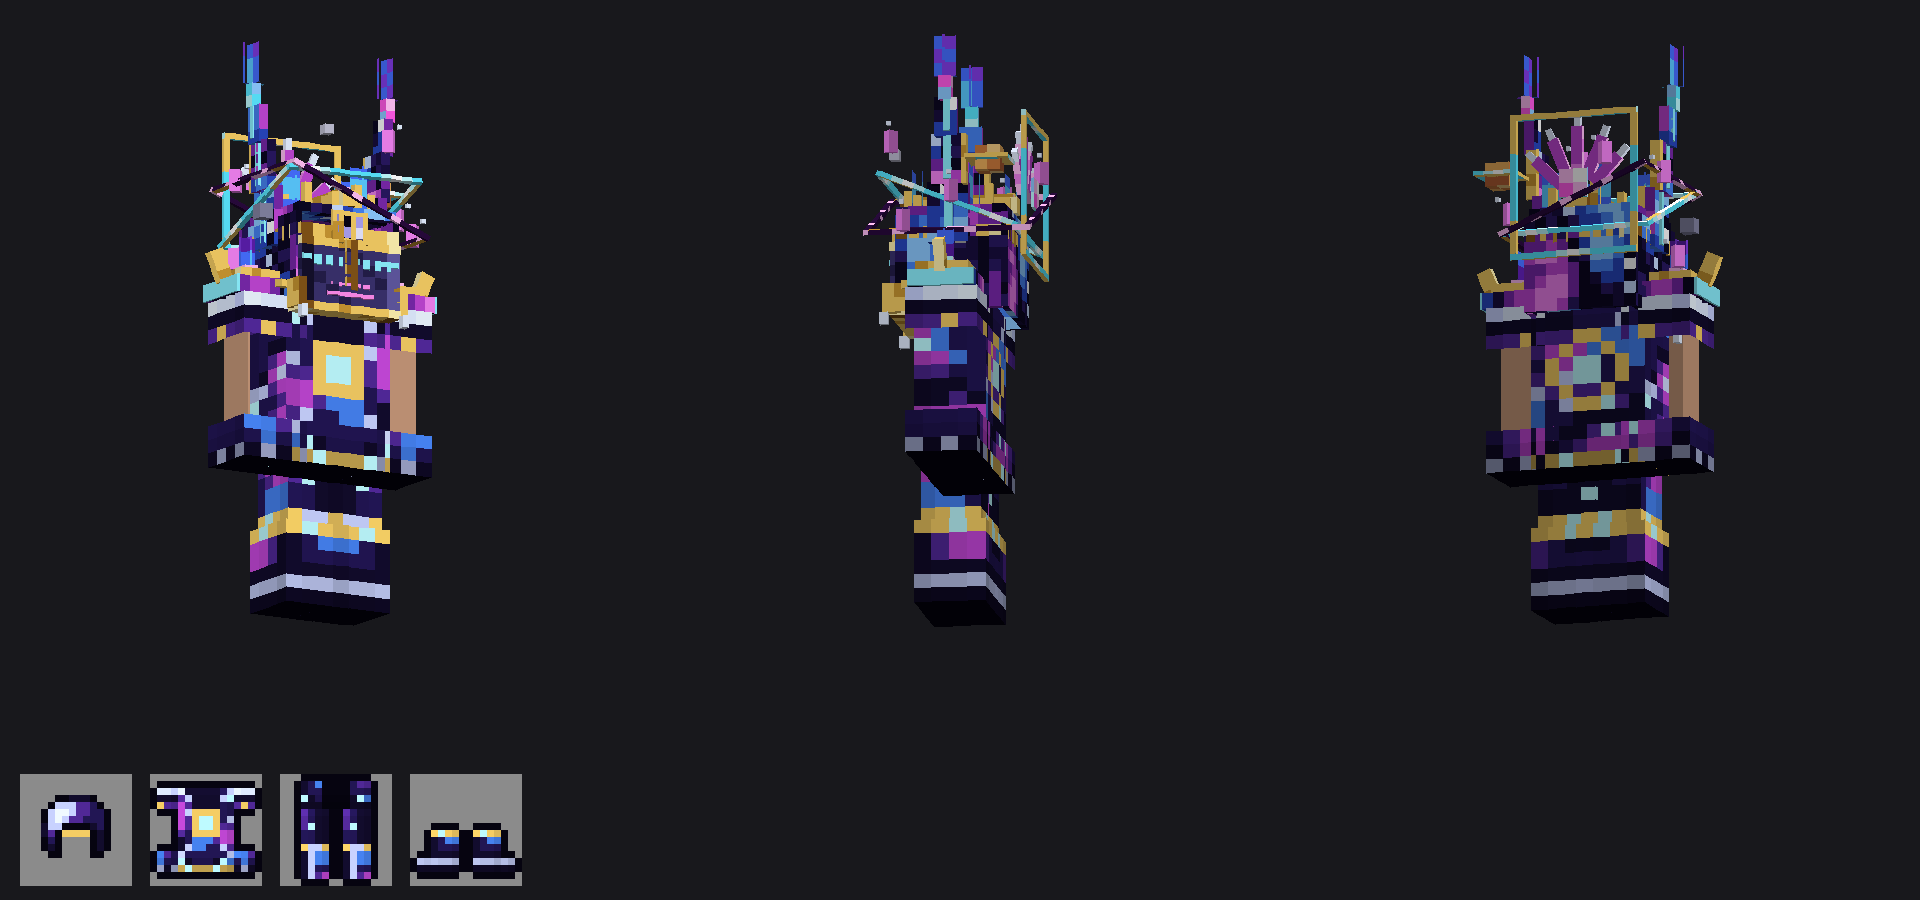
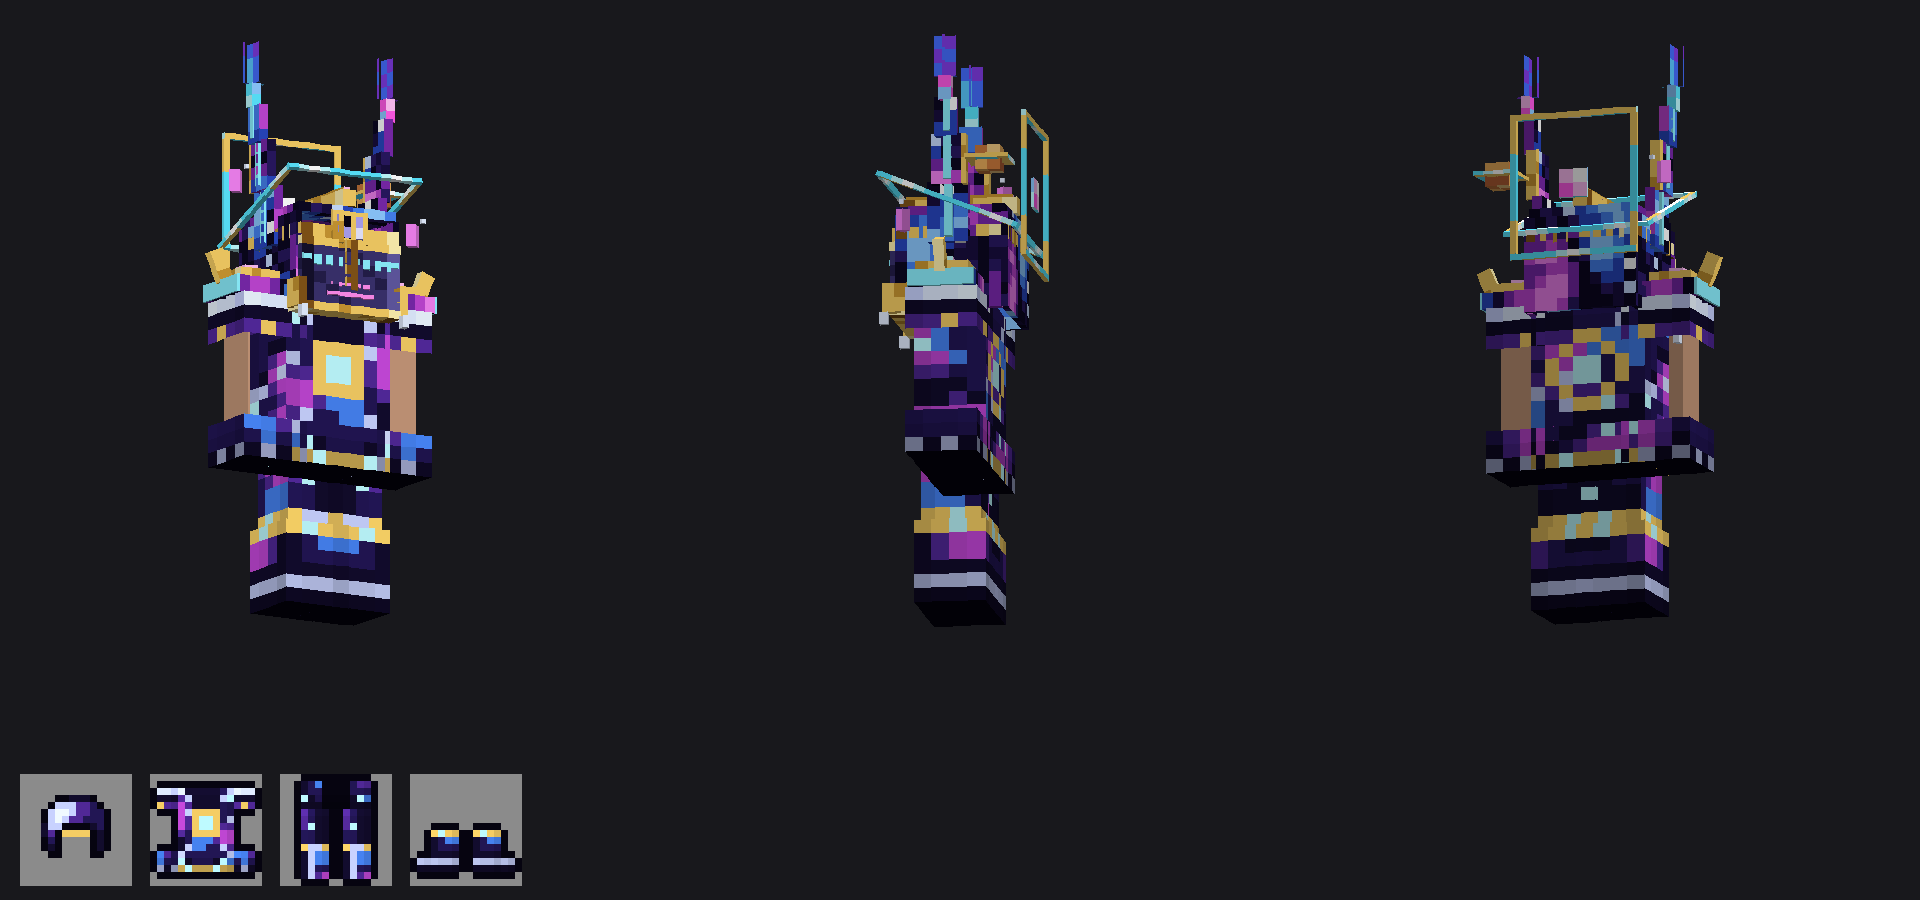
Declutter the Galactus helmet
Drop the second orbit ring, crystal fan, moons, most floating shards,
the crown of fire, crown spikes, cheek spikes and pauldron flames;
keep the faceplate, flaming fins, forehead eye, halo, one orbit ring
with its planet and the pauldrons (129 -> 71 elements).

Claude-Session: https://claude.ai/code/session_01WS5pyFY4Gi62yDz3jQZdtq

diff --git a/itemsadder/galactus.py b/itemsadder/galactus.py
@@ -1,8 +1,8 @@
 """Galactus: an admin-only cosmic set, shipped as its own zip (galactus_set.zip).
 
 Armor: nebula plate painted by the armor-set painter, with a 3D helmet
-(towering side fins topped with fire, a crown of cosmic fire, a blinking eye,
-two crossed orbit rings, planets and a fan of crystal shards). Weapons: sword, axe, pickaxe, shovel, hoe, mace, spear and
+(a closed faceplate with glowing eye slits, towering side fins topped with
+fire, a blinking eye, an orbit ring with a planet and a halo ring behind). Weapons: sword, axe, pickaxe, shovel, hoe, mace, spear and
 trident as real cuboid models on the handheld diagonal (like mace.py), plus a
 cosmic bow. Glowing parts use light_emission and an animated nebula texture.
 Run: python3 itemsadder/galactus.py
@@ -472,40 +472,20 @@ def helmet_parts():
          part("eye", (-1.2, 30, -5.08), (1.2, 31.9, -4.98), "eye", glow=True),
          part("planet", (6.4, 35, 2.8), (8.4, 37, 4.8), "planet"),
          part("planet_ring", (5.6, 35.85, 2), (9.2, 36.15, 5.6), "ring", glow=True),
-         part("moon", (-7.6, 31.4, -3.2), (-6.4, 32.6, -2), "moon"),
-         part("moon2", (-3.2, 38.4, -6.4), (-2.4, 39.2, -5.6), "moon")]
-    for i, (x, y, z) in enumerate(((-6.6, 35.6, 2.6), (6.8, 31.2, -3.6), (-2.8, 36.8, 6.4),
-                                   (3.6, 38.6, -5.2), (-7.4, 28.6, 1.4), (7.8, 33.4, 0.6))):
+         ]
+    for i, (x, y, z) in enumerate(((-6.6, 35.6, 2.6), (6.8, 31.2, -3.6))):
         p.append(part(f"shard{i}", (x - 0.4, y - 0.9, z - 0.4), (x + 0.4, y + 0.9, z + 0.4), "crystal", glow=True,
                       rot=("y", 45, (x, y, z))))
         p.append(part(f"spark{i}", (x + 0.9, y + 1.2, z - 0.15), (x + 1.2, y + 1.5, z + 0.15), "glow_w", glow=True))
-    o = (0, 33, 5.4)                                          # fan of crystal shards behind the head
-    for i, ang in enumerate((-45, -22.5, 0, 22.5, 45)):
-        ln = 4.4 if ang == 0 else 3.8 if abs(ang) < 30 else 3.2
-        p.append(part(f"fan{i}", (-0.45, 35, 5.15), (0.45, 35 + ln, 5.65), "crystal", glow=True, rot=("z", ang, o)))
-        p.append(part(f"fan_tip{i}", (-0.25, 35 + ln, 5.2), (0.25, 36 + ln, 5.6), "glow_w", glow=True,
-                      rot=("z", ang, o)))
     for nm, frm, to in (("n", (-6.4, 32.8, -6.4), (6.4, 33.2, -6)), ("s", (-6.4, 32.8, 6), (6.4, 33.2, 6.4)),
                         ("w", (-6.4, 32.8, -6), (-6, 33.2, 6)), ("e", (6, 32.8, -6), (6.4, 33.2, 6))):
         p.append(part(f"orbit_a_{nm}", frm, to, "ring", glow=True, rot=("x", 22.5, (0, 33, 0))))
-    for nm, frm, to in (("n", (-7, 32.8, -7), (7, 33.2, -6.6)), ("s", (-7, 32.8, 6.6), (7, 33.2, 7)),
-                        ("w", (-7, 32.8, -6.6), (-6.6, 33.2, 6.6)), ("e", (6.6, 32.8, -6.6), (7, 33.2, 6.6))):
-        p.append(part(f"orbit_b_{nm}", frm, to, "runes", glow=True, rot=("z", -22.5, (0, 33, 0))))
-    for i in range(8):                                        # crown of cosmic fire
-        t = math.radians(i * 45 + 22.5)
-        p += cross_flame(f"crown_fire{i}", 4 * math.sin(t), 32.6, 4 * math.cos(t), 1.6, 2.6 + (i % 2) * 1.2,
-                         "flame" if i % 2 else "flame2")
-    for i in range(12):                                       # ring of gold spikes around the crown
-        t = math.radians(i * 30 + 15)
-        x, z = 4.3 * math.sin(t), 4.3 * math.cos(t)
-        p.append(part(f"crown_spike{i}", (x - 0.3, 32.8, z - 0.3), (x + 0.3, 34 + (i % 2) * 0.8, z + 0.3), "gold"))
     p += mirror([
         part("shell_side", (4.4, 24, -4.6), (4.9, 32, 4.4), "nebula", glow=True),
         part("eye_slit", (0.8, 27.5, -5.18), (3.8, 28.3, -5.05), "glow_c", glow=True),
         part("eye_slit_tail", (3.8, 27.9, -5.18), (4.6, 28.3, -5.05), "glow_c", glow=True),
         part("mandible", (4.5, 23.8, -5.6), (5.2, 26.2, -3.6), "gold"),
         part("mandible_tip", (4.6, 22.8, -5.9), (5.1, 23.8, -5.2), "glow_w", glow=True),
-        part("cheek_spike", (4.9, 25.6, -3.4), (6.2, 26.2, -2.8), "gold", rot=("y", 22.5, (4.9, 25.9, -3.1))),
         part("band_s", (4.5, 29.8, -4.5), (4.9, 31, 4.5), "gold"),
         part("fin0", (4.6, 29.6, -1.8), (5.4, 34.6, 1.6), "nebula", glow=True),
         part("fin0_edge", (5.4, 30, -0.3), (5.55, 34.6, 0.3), "glow_c", glow=True),
@@ -519,7 +499,6 @@ def helmet_parts():
         part("pauldron", (4.6, 25, -2.8), (9.4, 26.4, 2.8), "nebula", glow=True),
         part("pauldron_top", (5.2, 26.4, -2.2), (8.8, 27.2, 2.2), "gold"),
         part("pauldron_core", (6.4, 27.2, -0.7), (7.6, 27.8, 0.7), "plasma", glow=True),
-        *cross_flame("pauldron_fire", 7, 27.8, 0, 1.4, 2.4, "flame2"),
         part("pauldron_spike", (8.6, 26.4, -0.4), (9.8, 29, 0.4), "gold", rot=("z", -22.5, (9.2, 26.4, 0))),
         part("pauldron_edge", (9.4, 25, -2.8), (9.55, 26.4, 2.8), "glow_c", glow=True)])
     return p
